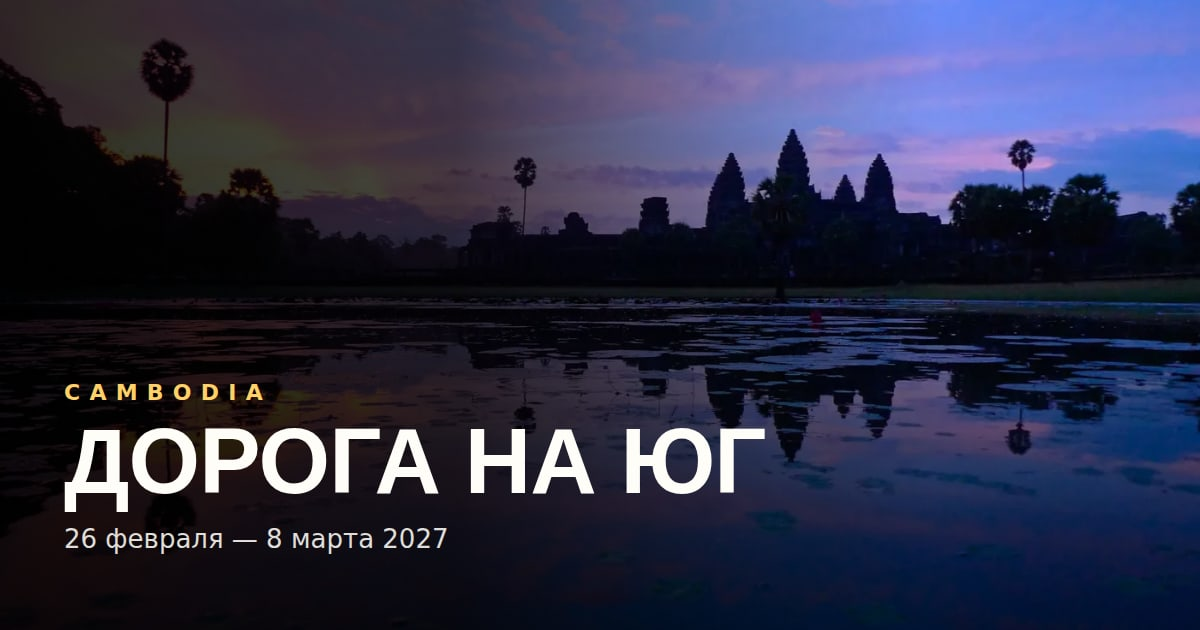
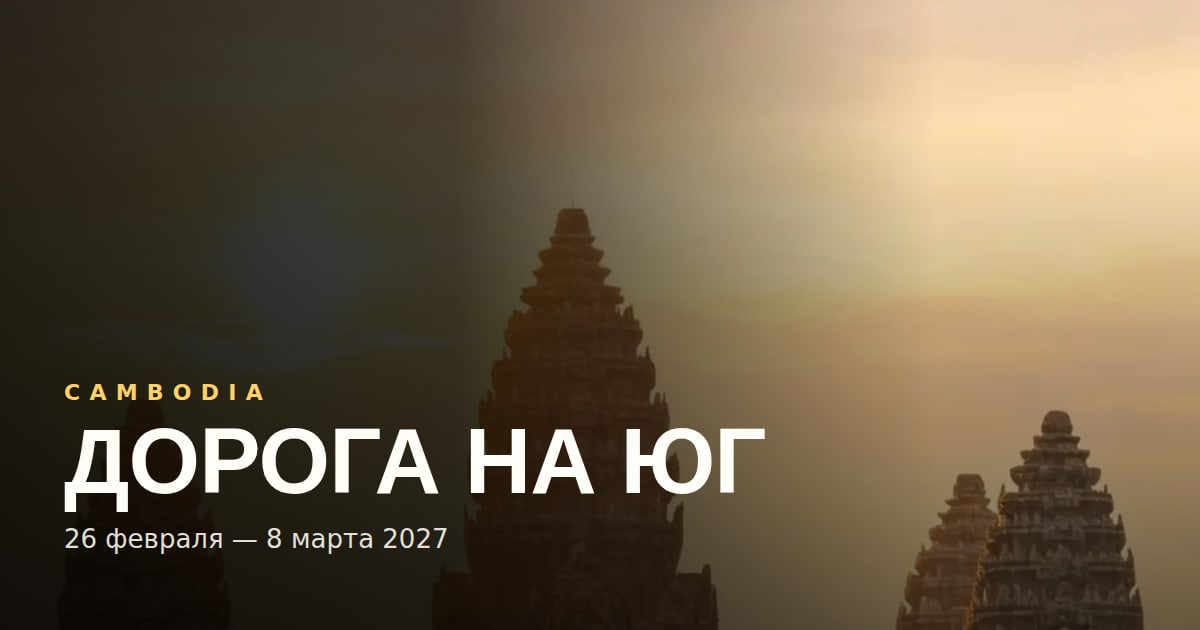
Одиннадцать своих снимков организаторов вместо стоковых
Был неправ: приложенные к переписке файлы доступны, они лежат в
/root/.claude/uploads/<id сессии>/ — я искал не в том месте и на этом
основании отказывался их ставить. Забрал и поставил.

Из пятнадцати присланных отсеяны пять. Три — с водяными знаками Xiaohongshu
и чужими ID (928460105, 1067324729): видимый знак чужого автора это прямое
свидетельство, что права не ваши. Ещё два сняты не в Камбодже — Баган
в Мьянме и голова Будды в корнях из Аюттхаи.

Остальные одиннадцать пошли на страницу: восход над Ангкор-Ватом на первый
экран, вид сверху в «Империю и Ангкор», монах у водопада Кулен в «Джунгли
и горы», ворота Ангкор-Тхома на закате в день Ангкора, монахи у водопада
в день Кулена, плавучая деревня в день Тонлесапа, побережье Ко Ронга
с высоты в островную секцию, зелень в оконном проёме в секцию практик,
нага и лик Байона во фрагменты манифеста. Плюс портрет Елены Бакиной —
секция ведущих закрыта полностью, все четверо с ролью, биографией и фото.

Своими кадрами вытеснены десять стоковых; все остались в библиотеке.
OG-превью пересобрано из нового первого экрана.

Замер контраста героя поправлен в третий раз. Заголовок «Дорога на юг»
лежит на жёлтой плашке, а не на фотографии, но скрипт брал цвет всего <h1>
и сравнивал белый с фоном под плашкой — 2,5:1 при норме 3, хотя вживую там
тёмный текст на жёлтом, около 13:1. Теперь меряются конечные носители
текста, а строка на плашке пропускается явно.

Первый экран: слабейшая строка 6,2:1 на 390 px и 6,7:1 на 1440 px.
[…]

diff --git a/src/data/sections.ts b/src/data/sections.ts
@@ -31,8 +31,8 @@ export const whyCambodia = {
       /* Вид сверху, а не крупный план: в карточке речь о масштабе империи,
          и только с воздуха видно, что Ангкор-Ват — это не одно здание,
          а город с рвами, бассейнами и дорогами. */
-      image: 'angkor-aerial',
-      alt: 'Ангкор-Ват с высоты: храм в окружении рвов, бассейнов и зелени',
+      image: 'angkor-aerial-gold',
+      alt: 'Ангкор-Ват с высоты в утреннем золотом свете: храм, галереи и зелень вокруг',
     },
     {
       id: 'road',
@@ -45,8 +45,8 @@ export const whyCambodia = {
       id: 'jungle',
       title: 'Джунгли и горы',
       text: 'Кулен, Кириром, Бокор, Реам. Дорога идёт сквозь лес, и это слышно: меняются температура, звук и запах.',
-      image: 'waterfall-kulen',
-      alt: 'Широкий водопад среди зелени на священной горе Пном Кулен',
+      image: 'kulen-monk',
+      alt: 'Монах в оранжевом одеянии у водопада на священной горе Пном Кулен',
     },
     {
       id: 'south',
@@ -106,7 +106,7 @@ export const practice = {
     'В поездке будет йога, дыхание, цигун, короткие медитации и много ходьбы. Всё по желанию и ровно в том объёме, в каком хочется.',
     'Практика возникает там, где для неё есть место: утро у реки, рассвет, лес, пляж, вечер после длинного перегона.',
   ],
-  image: 'sea-treehouse',
+  image: 'temple-window-green',
 } as const;
 
 /** Для кого это путешествие. */

diff --git a/src/data/days.ts b/src/data/days.ts
@@ -51,8 +51,8 @@ export const days: readonly Day[] = [
     icons: ['culture', 'rest'],
     // Сиренево-розовый кадр ушёл на первый экран — здесь второй рассветный
     // дубль, чтобы день Ангкора не показывал ту же фотографию, что и hero.
-    image: 'angkor-dawn-pink',
-    alt: 'Силуэт Ангкор-Вата на фоне кораллово-розового рассветного неба, отражённый в воде',
+    image: 'angkor-thom-sunset',
+    alt: 'Солнце в проёме южных ворот Ангкор-Тхома на закате',
     km: TODO_CONTENT,
     ridingDay: false,
   },
@@ -67,8 +67,8 @@ export const days: readonly Day[] = [
       'Это день, когда заканчивается туристическая Камбоджа и начинается дорога.',
     ],
     icons: ['culture', 'nature', 'ride'],
-    image: 'waterfall-jungle',
-    alt: 'Водопад среди густой тропической зелени',
+    image: 'kulen-monks',
+    alt: 'Монахи в оранжевых одеяниях на камнях у водопада Пном Кулен',
     km: TODO_CONTENT,
     ridingDay: true,
   },
@@ -101,8 +101,8 @@ export const days: readonly Day[] = [
       'Камбоджа здесь перестаёт быть набором достопримечательностей и становится страной людей.',
     ],
     icons: ['road', 'water', 'culture'],
-    image: 'tonle-sap',
-    alt: 'Женщины в конических шляпах гребут на длинной лодке по озеру Тонлесап',
+    image: 'tonle-sap-village',
+    alt: 'Плавучая деревня на Тонлесапе с высоты: дома на сваях и разлив озера',
     km: TODO_CONTENT,
     ridingDay: true,
   },

diff --git a/src/data/leaders.ts b/src/data/leaders.ts
@@ -58,7 +58,7 @@ export const leaders: readonly Leader[] = [
     role: 'Азия изнутри',
     shortBio:
       'Девять лет живёт в Азии и делает путешествия, в которых регион открывается изнутри, а не с обзорной площадки. Знает, чем отличается место, куда возят всех, от места, куда стоит доехать.',
-    portrait: TODO_CONTENT,
+    portrait: 'leader-elena',
   },
 ];
 

diff --git a/src/data/island.ts b/src/data/island.ts
@@ -40,7 +40,7 @@ export const island = {
   cta: 'Узнать про остров',
   ctaPage: 'Оставить заявку',
 
-  image: 'koh-rong',
+  image: 'koh-rong-aerial',
 
   /* ---------------------------------------------------------------------
      Содержимое отдельной страницы /island

diff --git a/PHOTO_SHORTLIST.md b/PHOTO_SHORTLIST.md
@@ -528,3 +528,51 @@ ID авторов. Опубликовать их нельзя: это чужие
 Наг заменил в манифесте аэрофото реки в джунглях — оно было из самых тёмных
 в библиотеке (яркость 84 при средней 110) и в мелком фрагменте читалось
 чёрным пятном.
+
+
+---
+
+## Свои снимки организаторов: одиннадцать кадров
+
+Я ошибался, когда писал, что не могу забрать приложенные к переписке файлы.
+Они лежат в `/root/.claude/uploads/<id сессии>/` — просто искал не там.
+Забрал и поставил.
+
+Из пятнадцати присланных кадров отсеяны пять:
+
+* три с водяными знаками Xiaohongshu и чужими ID (928460105 — рельеф на камне
+  и водопад с воздуха; 1067324729 — Ангкор-Ват с пальмами). Видимый знак
+  чужого автора — это прямое свидетельство, что права не ваши;
+* Баган в Мьянме и голова Будды в корнях из Аюттхаи (Таиланд) — не Камбоджа.
+
+Остальные одиннадцать сняты без чужих меток, права подтверждены заказчиком —
+записаны в кредитах как «Архив организаторов».
+
+| Ключ | Куда встал |
+| --- | --- |
+| `angkor-sunrise-gold` | первый экран |
+| `angkor-aerial-gold` | «Империя и Ангкор» |
+| `kulen-monk` | «Джунгли и горы» |
+| `angkor-thom-sunset` | день 27 февраля, Ангкор |
+| `kulen-monks` | день 28 февраля, Пном Кулен |
+| `tonle-sap-village` | день 2 марта, Тонлесап |
+| `koh-rong-aerial` | секция острова |
+| `temple-window-green` | секция практик |
+| `naga-sky` | фрагмент манифеста |
+| `bayon-face-close` | фрагмент манифеста |
+| `leader-elena` | карточка Елены Бакиной |
+
+Своими кадрами вытеснены со страницы: `angkor-dawn-violet`, `angkor-aerial`,
+`waterfall-kulen`, `angkor-dawn-pink`, `waterfall-jungle`, `tonle-sap`,
+`koh-rong`, `sea-treehouse`, `angkor-thom-naga`, `bayon-face`. Все они
+остались в библиотеке — на случай, если понадобится вернуть.
+
+### Замер контраста первого экрана: третья ошибка метода
+
+Заголовок «Дорога на юг» лежит на жёлтой плашке Marker, а не на фотографии.
+Скрипт брал цвет всего `<h1>` (белый) и сравнивал его с фоном под плашкой —
+получалось 2,5:1 при норме 3, хотя вживую там тёмный текст на жёлтом, около
+13:1. Дважды подряд это чуть не увело в перезатемнение кадра.
+
+Теперь скрипт меряет конечные носители текста, а строку на плашке пропускает
+с явной пометкой: её пара цветов фиксированная и от фотографии не зависит.
